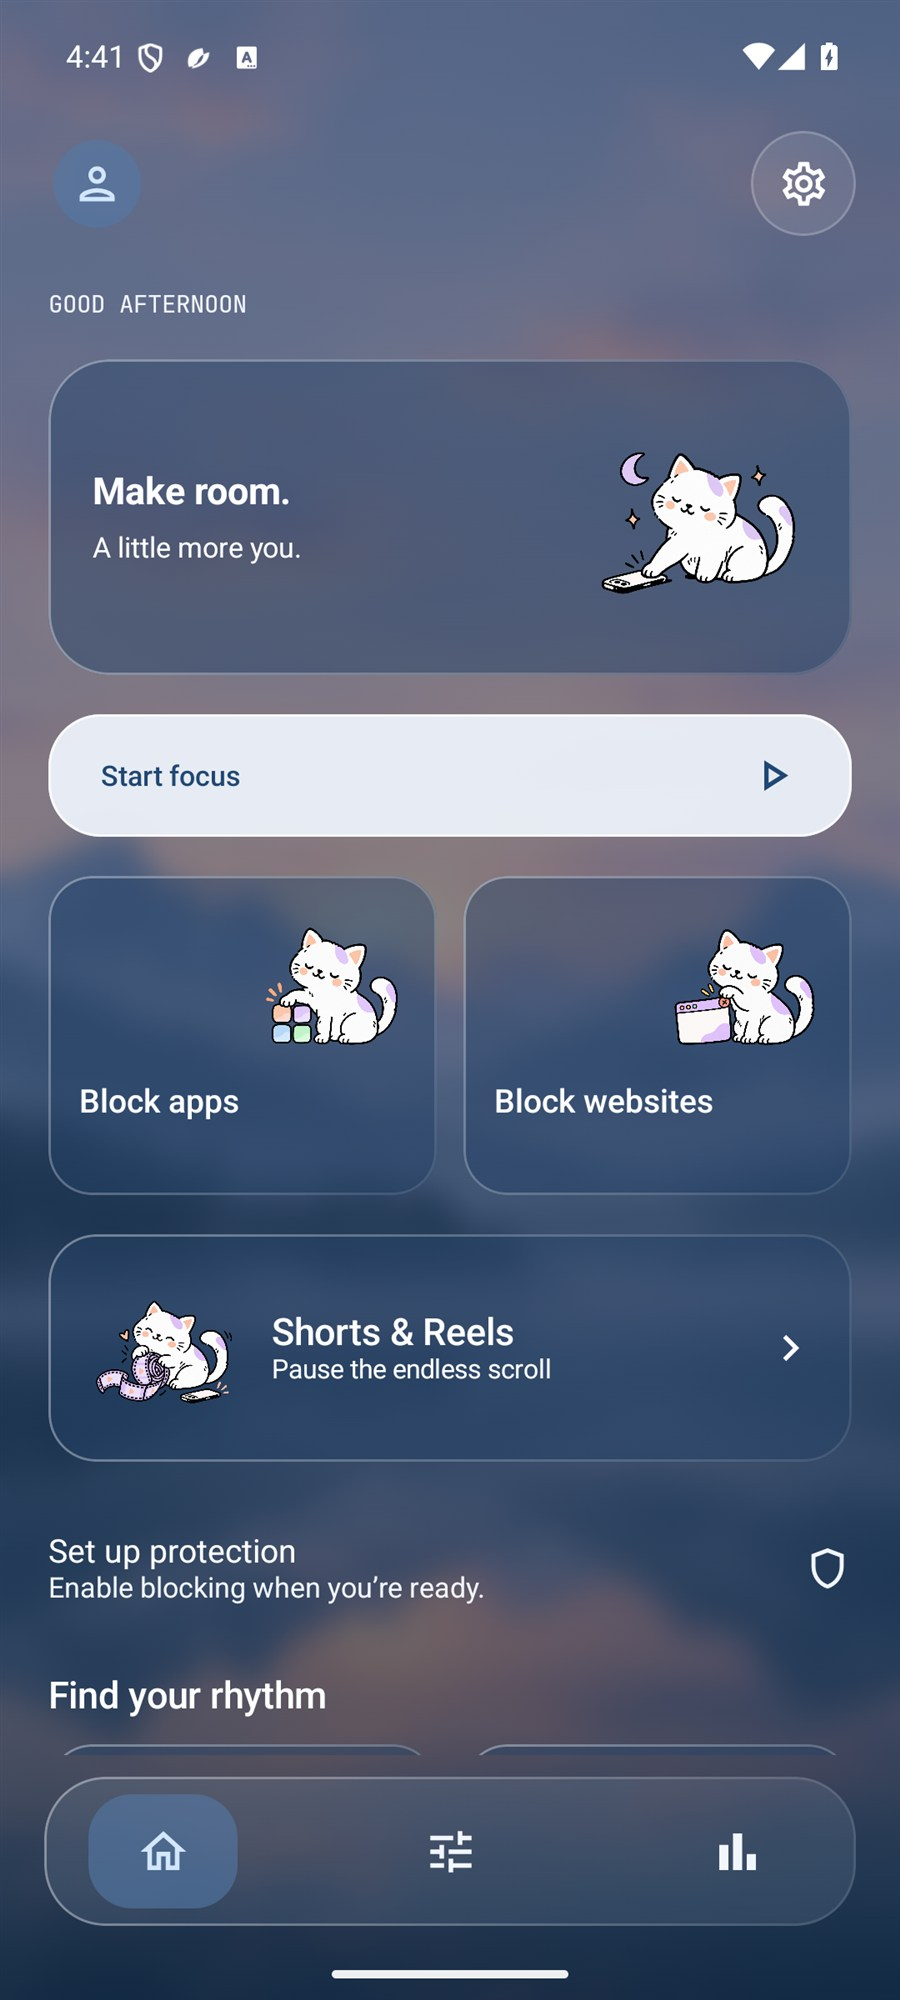
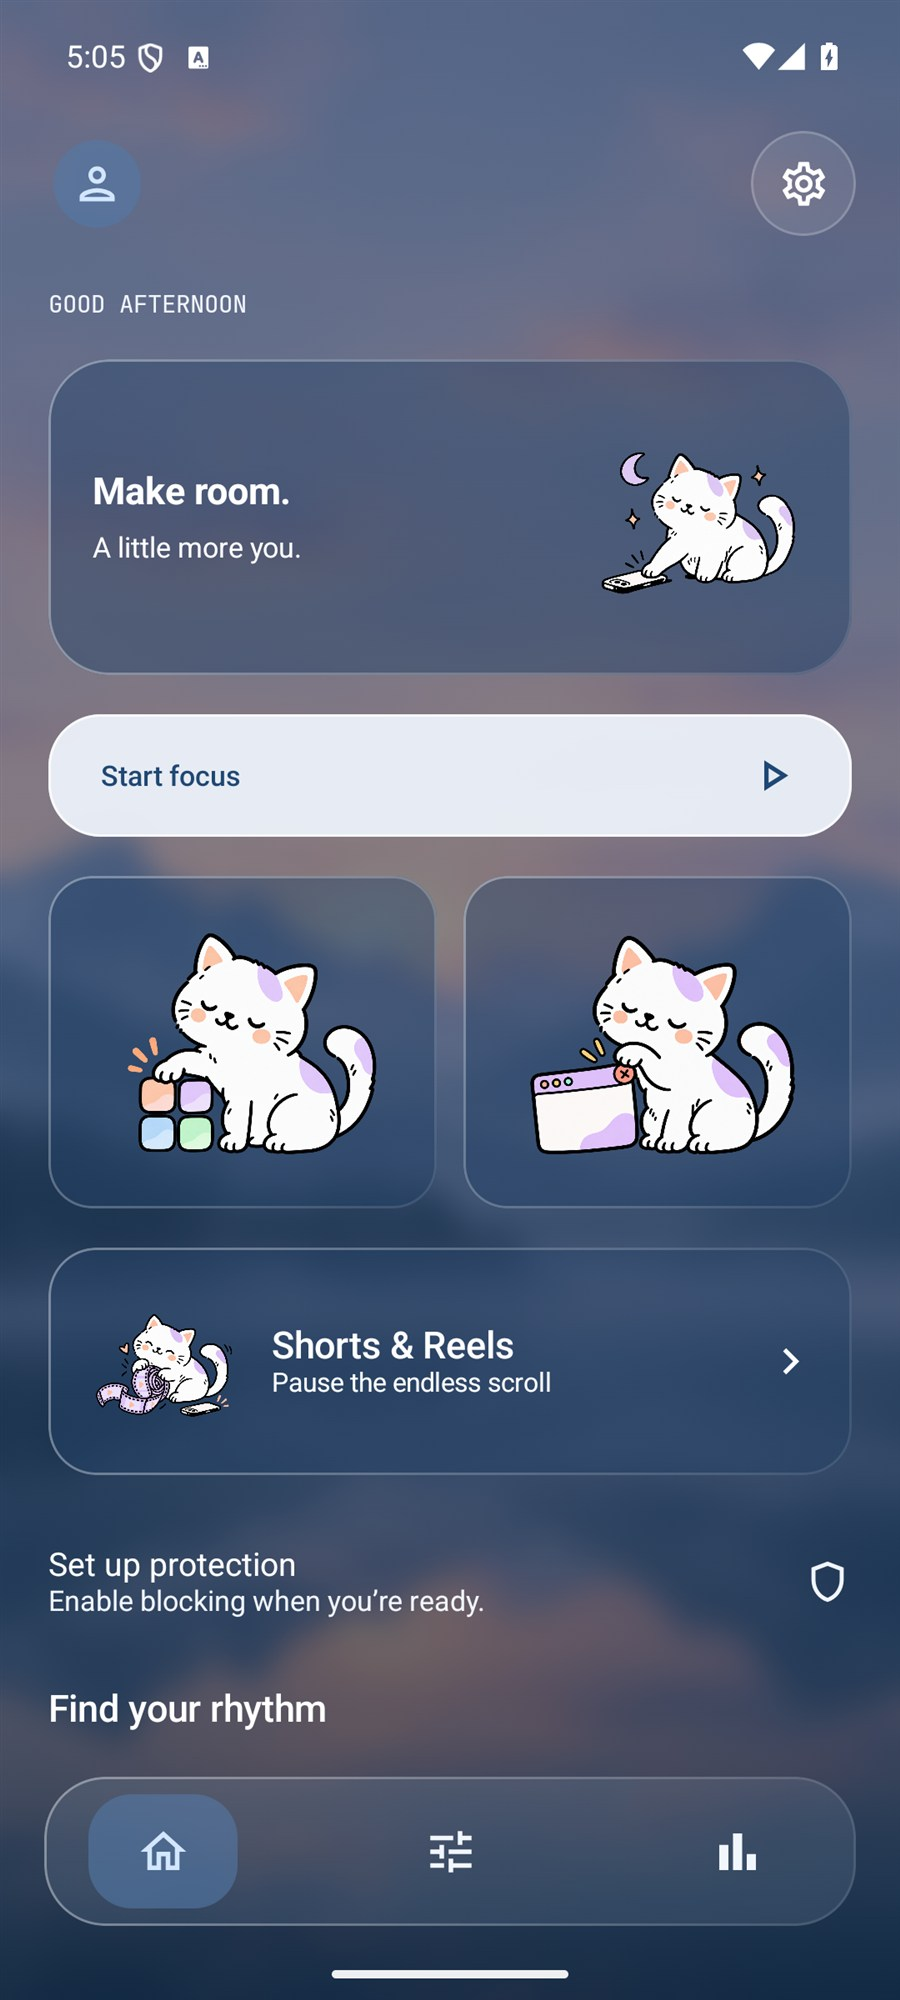
Enlarge Home blocking illustrations and simplify shortcut cards

diff --git a/app/src/main/java/dev/still/focus/MainActivity.kt b/app/src/main/java/dev/still/focus/MainActivity.kt
@@ -235,13 +235,12 @@ fun profileArt(profile: Profile): CatArt = CatArt.entries.firstOrNull { it.name 
             ActiveBlocks(s, now)
             Row(horizontalArrangement = Arrangement.spacedBy(12.dp)) {
                 listOf(Triple("Block apps", "blockApps", R.drawable.cat_block_apps), Triple("Block websites", "blockWebsites", R.drawable.cat_block_websites)).forEach { (title, target, art) ->
-                    GlassSurface(Modifier.weight(1f).heightIn(min = 146.dp).clip(RoundedCornerShape(20.dp)).clickable { nav(target) },
+                    GlassSurface(Modifier.weight(1f).height(152.dp).clip(RoundedCornerShape(20.dp))
+                        .clickable(role = Role.Button) { nav(target) }.semantics { contentDescription = title },
                         shape = RoundedCornerShape(20.dp), color = if (target == "blockApps") FoculyBrand.lilac else FoculyBrand.peach,
                         contentColor = MaterialTheme.colorScheme.onSurface) {
-                        Column(Modifier.fillMaxWidth().padding(14.dp), verticalArrangement = Arrangement.spacedBy(8.dp)) {
-                            Image(painterResource(art), null, Modifier.align(Alignment.End).size(72.dp), contentScale = ContentScale.Fit)
-                            Text(title, Modifier.fillMaxWidth(),
-                                style = MaterialTheme.typography.titleSmall, color = MaterialTheme.colorScheme.onSurface, maxLines = 2)
+                        Box(Modifier.fillMaxSize().padding(8.dp), contentAlignment = Alignment.Center) {
+                            Image(painterResource(art), null, Modifier.fillMaxSize(), contentScale = ContentScale.Fit)
                         }
                     }
                 }

diff --git a/app/src/androidTest/java/dev/still/focus/ScreenshotGalleryTest.kt b/app/src/androidTest/java/dev/still/focus/ScreenshotGalleryTest.kt
@@ -61,12 +61,12 @@ class ScreenshotGalleryTest {
             val demo = FocusState(onboarding = true, apps = listOf(AppRule("dev.still.fixture", "Scroll Test")), domains = setOf("reddit.com"))
             ui.runOnIdle { Repository.update { demo } }
             open("home"); shot("simple-01-home"); lower("simple-02-home-feeds")
-            ui.onNodeWithText("Block apps").performScrollTo().performClick(); shot("simple-03-block-apps")
+            ui.onNodeWithContentDescription("Block apps").performScrollTo().performClick(); shot("simple-03-block-apps")
             ui.onNodeWithText("Apps").performClick(); shot("simple-04-choose-apps")
             ui.onNodeWithText("Search apps").performTextInput("Scroll"); shot("simple-05-search-keyboard")
             ui.onNodeWithText("Search apps").performImeAction()
             ui.onNodeWithText("Done · 1 selected").performClick()
-            open("home"); ui.onNodeWithText("Block websites").performScrollTo().performClick(); shot("simple-06-block-websites")
+            open("home"); ui.onNodeWithContentDescription("Block websites").performScrollTo().performClick(); shot("simple-06-block-websites")
             open("home"); ui.onNodeWithText("Shorts & Reels").performScrollTo().performClick(); shot("simple-07-block-feeds")
             open("setup"); shot("simple-08-focus"); lower("simple-09-focus-targets")
             ui.onNodeWithText("Websites").performScrollTo().performClick(); shot("simple-10-choose-websites")

diff --git a/app/src/androidTest/java/dev/still/focus/AppTest.kt b/app/src/androidTest/java/dev/still/focus/AppTest.kt
@@ -227,7 +227,7 @@ class AppTest {
         ui.onNodeWithText("Strict").performScrollTo().assertIsNotEnabled()
     }
     @Test fun homeAppShortcutOpensPickerAndRestoresSelectionWithoutSavingABlock() {
-        ui.onNodeWithText("Block apps").performScrollTo().performClick()
+        ui.onNodeWithContentDescription("Block apps").performScrollTo().performClick()
         ui.onNodeWithText("Search apps").assertIsDisplayed().performTextInput("Scroll")
         ui.waitUntil(5000) { ui.onAllNodesWithText("Scroll Test").fetchSemanticsNodes().isNotEmpty() }
         ui.onNodeWithText("Scroll Test").performClick()
@@ -238,7 +238,7 @@ class AppTest {
         ui.runOnIdle { assertTrue(Repository.state.apps.isEmpty()); assertTrue(Repository.state.blocks.isEmpty()) }
     }
     @Test fun homeWebsiteShortcutAddsAndNormalizesDomainInOneScreen() {
-        ui.onNodeWithText("Block websites").performScrollTo().performClick()
+        ui.onNodeWithContentDescription("Block websites").performScrollTo().performClick()
         ui.onNodeWithText("Website or domain").performTextInput("https://www.reddit.com/r/focus")
         ui.onNodeWithText("Add website").performClick()
         ui.onNodeWithText("reddit.com").assertExists()

diff --git a/app/src/androidTest/java/dev/still/focus/DirectBlockTest.kt b/app/src/androidTest/java/dev/still/focus/DirectBlockTest.kt
@@ -37,7 +37,7 @@ class DirectBlockTest {
             shell("settings put secure accessibility_enabled 1")
             waitFor { Repository.protectionReady() }
 
-            ui.onNodeWithText("Block apps").performScrollTo().performClick()
+            ui.onNodeWithContentDescription("Block apps").performScrollTo().performClick()
             ui.onNodeWithText("Search apps").performTextInput("Scroll")
             ui.waitUntil(5000) { ui.onAllNodesWithText("Scroll Test").fetchSemanticsNodes().isNotEmpty() }
             ui.onNodeWithText("Scroll Test").performClick()
@@ -52,7 +52,7 @@ class DirectBlockTest {
                 assertNull(Repository.state.session)
             }
 
-            ui.onNodeWithText("Block websites").performScrollTo().performClick()
+            ui.onNodeWithContentDescription("Block websites").performScrollTo().performClick()
             ui.onNodeWithText("Website or domain").performTextInput("https://www.reddit.com/r/focus")
             ui.onNodeWithText("Add website").performClick()
             ui.onNodeWithText("1 week").performScrollTo().performClick()

diff --git a/docs/GLASS_DESIGN.md b/docs/GLASS_DESIGN.md
@@ -9,6 +9,7 @@ The 16 October 2026 development design follows the user's glassmorphism referenc
 - Material dialogs use coordinated slate surfaces; selection sheets use translucent slate containers. Inputs, switches, chips, and chart accents share the same blue/white palette.
 - Primary actions use a milky fill, blue text, rounded corners, and a fine edge. Disabled actions remain visibly different. Selected tabs/modes retain both semantic selection state and a distinct blue fill.
 - The dock floats inside the bottom safe area and still has exactly Home, Rules, and Insights. Settings and profile remain in the top header.
+- Home's two blocking shortcuts are illustration-only glass cards with larger centered cats. The entire card is a button, labeled “Block apps” or “Block websites” for screen readers, and opens the corresponding direct setup flow.
 - Standard Android sans-serif makes headings and body text lighter; JetBrains Mono remains on timer displays, captions, and small data labels. The established type scale, 48 dp interaction minimums, scrolling content, and persistent editor actions remain.
 - Light mode uses the softer landscape tint; Dark mode deepens the blue overlay. The background is static and introduces no continuous animation, including when Reduce motion is enabled.
 

diff --git a/VALIDATION.md b/VALIDATION.md
@@ -2,6 +2,7 @@
 
 ## Glass interface — 16 October 2026
 
+- After enlarging Home's illustration-only shortcuts, both direct-entry regressions and the simplified-flow gallery pass again (3 focused Android checks). Light/dark Home captures and the signed local preview APK are refreshed; button descriptions retain the app/website labels for accessibility.
 - 22 JVM engine tests and all 24 Android checks pass (19 UI/backend, 1 direct Home blocking integration, 2 PIN, 2 native overlay scenarios) on the isolated Android 15 emulator with Scroll Test installed.
 - Debug/test APK assembly, Android lint, and optimized release assembly pass. The release build remains local; this design update does not publish a new APK release or change the version/signing identity.
 - Cards, onboarding, target sheets, settings, dialogs, primary actions, the dock, native blocking overlays, and the home-screen widget now share the glass direction. The generated backdrop is bundled locally and opaque; no permission or network access was added.

diff --git a/CHANGELOG.md b/CHANGELOG.md
@@ -2,6 +2,7 @@
 
 ## Unreleased — glass interface, 2026-10-16
 
+- Make Home's app and website shortcuts illustration-only, with larger centered cats and accessible button labels.
 - Restyle the complete Android interface with a bundled misty lake backdrop, translucent blue glass panels, highlight borders, pale buttons, and coordinated inputs, pickers, dialogs, and charts.
 - Float the existing three-icon dock above the background; retain direct blocking, fixed primary actions, and corrected cat doodles.
 - Use lighter sans-serif headings/body copy while retaining JetBrains Mono timers and small labels. Provide light and deeper dark glass themes.
